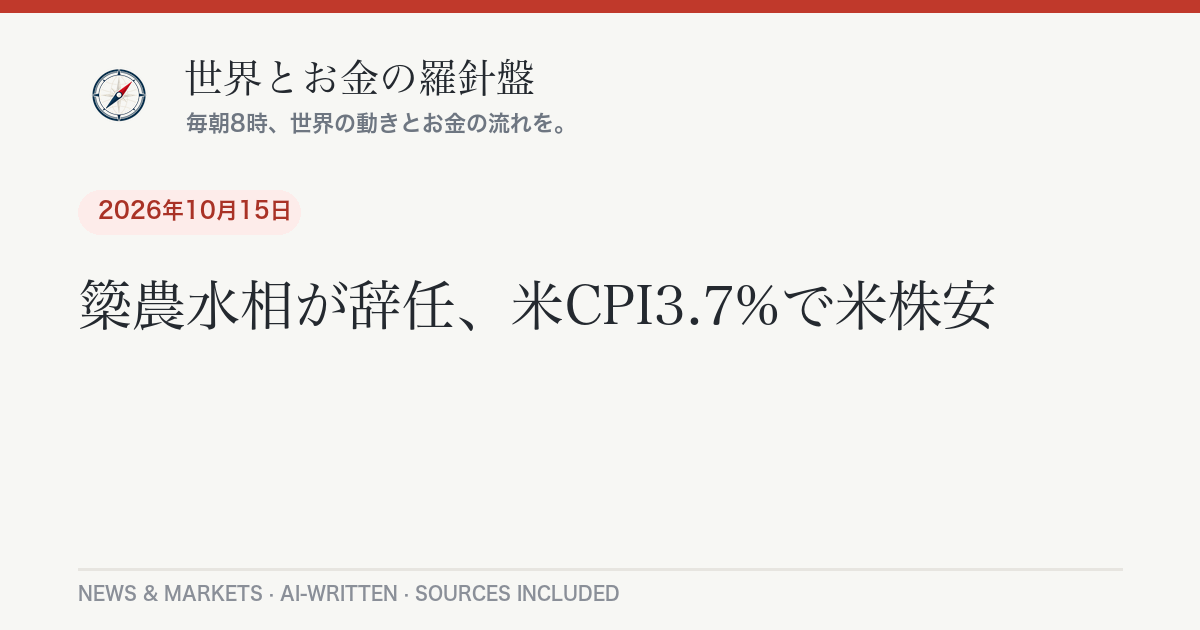
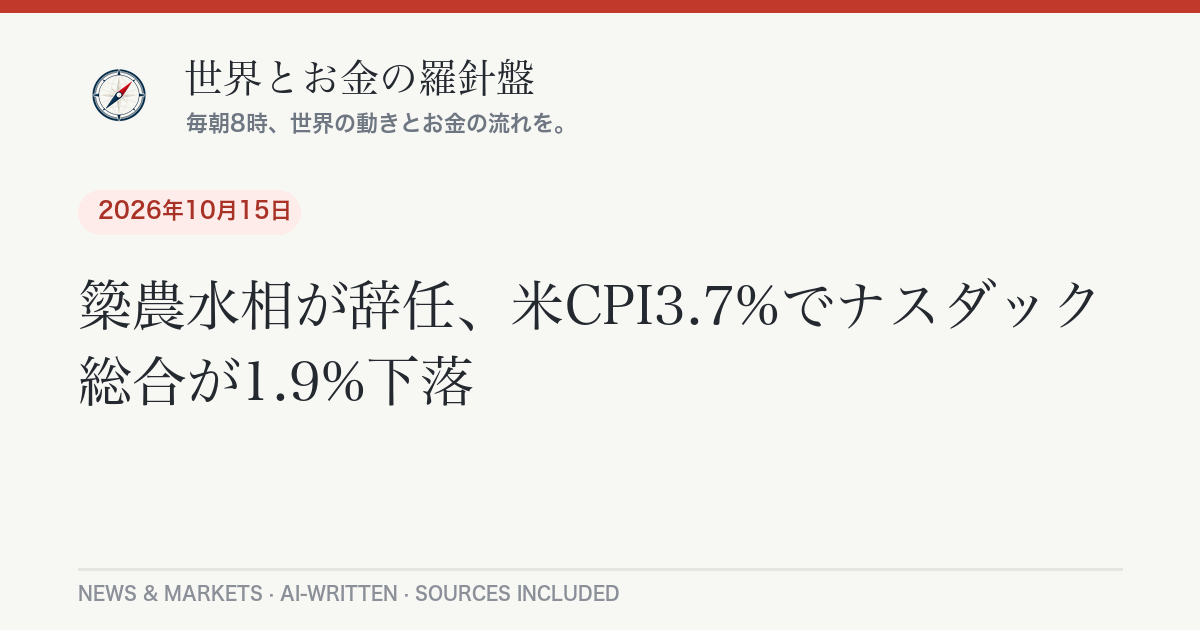
Daily briefing 2026-10-17

Changed region(s): [[0.0617, 0.5429, 0.4008, 0.6635], [0.6783, 0.4222, 0.8633, 0.5429], [0.8942, 0.4524, 0.925, 0.5127]]

diff --git a/_posts/2026-10-17-daily-briefing.md b/_posts/2026-10-17-daily-briefing.md
@@ -1,0 +1,107 @@
+---
+layout: post
+lang: ja
+title: "AI債務不安でナスダック2%安、原油は100ドル目前｜10月17日のニュースとお金"
+date: 2026-10-17 07:41:43 +0900
+categories: [ニュース, 経済]
+headline: "AI債務不安でナスダック2%安、原油は100ドル目前"
+permalink: /2026/10/17/daily-briefing/
+---
+
+## 今日のポイント
+
+16日のアメリカ市場では、AI（人工知能）向けデータセンター企業の「借金」への不安が再び強まり、ナスダック総合指数が2%を超えて下がりました。一方、中東の緊張が続く原油は1バレル100ドル目前まで上がっています。東京市場は前日の急落から7営業日ぶりに大きく反発しましたが、週明けは米国株安の影響を受けやすい状況です。
+
+## 今日の羅針盤（Compass Insight）
+
+今日のキーワードは「AIの借金とエネルギー高の二重苦」です。米国では、AI向けの計算設備を貸し出すコアウィーブの社債や信用リスクへの不安が広がり、ハイテク株がまとめて売られました。前日に「金利が下がって一息」と見えた流れは1日で逆戻りし、ナスダックは[2.14%安](https://thestreet.com/stock-market-today/stock-market-today-dow-jones-sp-500-nasdaq-updates-oct-16-2026)となりました。
+
+もう一つの重しが物価です。米国の9月の消費者物価は[前年比3.7%上昇](https://www.cnbc.com/2026/10/16/us-treasury-yields-investors-hot-inflation-data-.html)と予想を上回り、ウォーシュFRB議長は10月27〜28日の会合で利上げするかどうかについて[はっきりした合図を出しませんでした](https://www.cnbc.com/2026/10/16/feds-warsh-says-ai-development-path-will-be-very-bumpy-.html)。原油高が物価を押し上げ、それが金利高を招き、借金の多い企業の株価を圧迫する——今週の相場はこの連鎖で動いています。
+
+家計への影響で見ると、原油（WTI）が[1バレル99ドル台](https://finance.yahoo.com/quote/CL%3DF/history)、ドル円が[1ドル＝158円台](https://api.frankfurter.app/latest?from=USD&to=JPY)という組み合わせは、日本ではガソリン代や電気・ガス代、輸入食品の値段を押し上げる方向に働きます。新NISAなどで米国株やハイテク株の投資信託を持っている方は、値動きが大きい局面が続く可能性があります。
+
+短期的には、週明けの東京市場が16日の反発を保てるか、そして10月末の米FOMCで利上げがあるかに注目です。中長期では、AI関連企業が借金に見合う利益を出せるのか、決算での「答え合わせ」と、ホルムズ海峡の通航が落ち着くかどうかが大きな分かれ目になりそうです。
+
+## 今日のニュース
+
+### 日本
+
+- 高市首相は16日の参議院予算委員会で、地元の道路予算をめぐる発言などで辞任した簗前農林水産相について[陳謝し、内閣一丸で重要課題に対応する考えを示しました](https://news.web.nhk/newsweb/na/nd-20261016de60209)。予算配分の増減があった場合、その理由の公開も検討するよう指示したことも明らかにしています。
+- 10月2日のG7オンライン首脳会議を欠席したことについて、首相は「ディスプレーの準備が整わなかった」など[事務的な準備が間に合わなかったと釈明しました](https://www.nikkei.com/article/DGXZQOUA161FH0W6A011C2000000/)。
+- 気象庁は16日昼、北海道から東海にかけて出した緊急地震速報を[取り消しました](https://news.livedoor.com/topics/detail/32580904/)。地震の規模を過大に推定したことが原因とみられています。
+- 東京株式市場は日経平均が[898円高の6万5324円](https://www.zaikei.co.jp/article/20261016/873804.html)と7営業日ぶりに反発し、終値で6万5000円台を回復しました。
+
+### 世界
+
+- ホルムズ海峡周辺では、英国の海事機関UKMTOによると[今週だけで12隻が攻撃を受けたと報告](https://www.cbsnews.com/live-updates/iran-war-us-trump-strait-of-hormuz-yemen-houthis-saudi-arabia/)されています。イラン革命防衛隊は海峡を支配していると主張しましたが、米中央軍はこれを否定しています。
+- イランのペゼシュキアン大統領は16日、核兵器を求めていないと述べ、[対話の用意があると表明](https://www.cbsnews.com/live-updates/iran-war-us-trump-strait-of-hormuz-yemen-houthis-saudi-arabia/)しました。
+
+### アメリカ
+
+- トランプ大統領は、ウクライナがロシアの製油所への攻撃を再開したことを[「恥ずべきこと」と批判](https://www.nbcnews.com/world/ukraine/trump-ukraine-strikes-russian-oil-disgrace-zelenskyy-starlink-rcna603848)し、世界の石油価格を押し上げるだけだと述べました。
+- 14日に発表された9月の消費者物価指数は[前年比3.7%上昇](https://www.cbsnews.com/news/september-cpi-report-inflation-energy-costs/)と予想（3.6%）を上回りました。ガソリンなどエネルギー価格の高騰が主な要因で、FRBへの利上げ圧力になっています。
+- AI関連株の売りが広がり、ナスダック総合指数は[2.14%安の2万6140](https://thestreet.com/stock-market-today/stock-market-today-dow-jones-sp-500-nasdaq-updates-oct-16-2026)で取引を終えました。
+
+### ヨーロッパ
+
+- ブリュッセルのEU首脳会議が16日に閉幕しました。ゼレンスキー大統領は来年に向けて[700億ユーロの追加支援を要請](https://www.euronews.com/2026/10/16/budget-ukraine-migration-five-takeaways-from-the-eu-leaders-summit)し、首脳らはロシアが全面侵攻を続ける限り制裁を維持する姿勢を確認しました。
+- 次期の長期予算は前進がなく、[11月26日に特別首脳会議](https://www.euronews.com/2026/10/16/budget-ukraine-migration-five-takeaways-from-the-eu-leaders-summit)が開かれます。中国からの化学品・機械の輸入に対し、関税などの貿易防衛策の準備を欧州委員会に求めました。
+- ゼレンスキー氏はトランプ氏との関係が冷え込むなか、欧州首脳を[「真のリーダー」とたたえました](https://www.cnn.com/2026/10/16/europe/zelensky-brussels-trump-relationship-intl)。
+
+## 経済とお金の動き
+
+### 世界の経済と原油・相場
+
+| 指標 | 水準（10月16日終値など） | 前日比 |
+|---|---|---|
+| NYダウ | [5万2002.41ドル](https://thestreet.com/stock-market-today/stock-market-today-dow-jones-sp-500-nasdaq-updates-oct-16-2026) | <span class="chg-down">-175.28ドル（-0.34%）</span> |
+| S&P500 | [7659.44](https://finance.yahoo.com/quote/%5EGSPC/history) | <span class="chg-down">-84.62（-1.09%）</span> |
+| ナスダック総合 | [2万6140.03](https://thestreet.com/stock-market-today/stock-market-today-dow-jones-sp-500-nasdaq-updates-oct-16-2026) | <span class="chg-down">-573.00（-2.14%）</span> |
+| 日経平均株価 | [6万5324.29円](https://www.zaikei.co.jp/article/20261016/873804.html) | <span class="chg-up">+898.34円（+1.39%）</span> |
+| TOPIX | [4066.00](https://www.zaikei.co.jp/article/20261016/873804.html) | <span class="chg-up">+66.66（+1.67%）</span> |
+| WTI原油 | [99.04ドル/バレル](https://finance.yahoo.com/quote/CL%3DF/history) | <span class="chg-up">+1.07ドル（+1.1%）</span> |
+| ドル円 | [158.02円](https://api.frankfurter.app/latest?from=USD&to=JPY)（ECB参照レート、10月16日） | — |
+
+原油は、北海ブレントが16日に一時[1バレル110ドルに達しました](https://www.cnbc.com/2026/10/16/oil-price-today-iran-strait-hormuz-ukraine-russia.html)。ホルムズ海峡での攻撃に加え、ウクライナがロシアの製油所への攻撃を続ける姿勢を示したことが材料です。WTIは12日の93ドル台から[週を通じて上昇](https://finance.yahoo.com/quote/CL%3DF/history)しました。エネルギー高は世界の物価を押し上げ、各国の利上げ圧力にもつながっています。
+
+### アメリカの経済
+
+米国では「物価が下がりきらない」ことがはっきりしてきました。9月の消費者物価は前年比3.7%、卸売物価は[6.3%上昇と2022年以来の大きさ](https://www.cnbc.com/2026/10/16/us-treasury-yields-investors-hot-inflation-data-.html)です。10年国債利回りは週末時点で[5.1%前後](https://www.cnbc.com/2026/10/16/us-treasury-yields-investors-hot-inflation-data-.html)と高い水準にあります。ウォーシュ議長は10月の利上げについて手の内を見せず、市場は月末のFOMCまで神経質な展開が続きそうです。セクター別ではテクノロジーが[3%超下落した一方、エネルギーは約2.5%上昇](https://www.wptf.com/2026/10/16/18609/)と明暗が分かれました。
+
+### 日本の経済
+
+日経平均は、前日の3318円安からの買い戻しで[7営業日ぶりに反発](https://kabutan.jp/news/marketnews/?b=n202610160962)しました。半導体関連が中心で、東京エレクトロン1銘柄で日経平均を[約134円押し上げ](https://www.zaikei.co.jp/article/20261016/873816.html)ています。ただ、その後の米国でハイテク株が再び売られたため、週明けは反落から始まる可能性もあります。円は1ドル＝158円台と円安水準が続いており、輸入物価を通じた値上がり圧力は残っています。
+
+## 今日の注目銘柄・セクター
+
+- **コアウィーブ（米・AIデータセンター）**：多額の借金への不安から株価が大きく下がり、16日の昼過ぎには[11%超下落](https://www.forbes.com/sites/antoniopequenoiv/2026/10/16/coreweave-shares-slide-after-jensen-huang-says-he-is-optimistic-about-ai-firm/)しました。エヌビディアのフアンCEOが「楽観している」と発言したものの、売りは止まりませんでした。社債の信用リスクを示すCDSも[過去最高水準](https://www.cnbc.com/2026/10/15/coreweave-credit-default-swaps-hit-distress-levels-as-investors-sour-on-ai-debt.html)に達しています。
+- **米国のエネルギー株**：原油高を受けて、ハイテク株が売られるなかで[唯一といえる強いセクター](https://www.wptf.com/2026/10/16/18609/)となりました。
+- **東京エレクトロン**：前日の急落からの買い戻しで[2.56%高](https://www.zaikei.co.jp/article/20261016/873816.html)となり、日経平均の上昇に最も寄与しました。米国のハイテク株安を受け、週明けの値動きが注目されます。
+
+*※特定銘柄の売買を推奨するものではありません。投資判断はご自身の責任で。*
+
+## まとめ：注目の3つ
+
+1. **AI企業の借金問題**：コアウィーブを起点に、借金でAI投資を進める企業への警戒が広がるか
+2. **10月27〜28日の米FOMC**：物価の上振れを受けて、追加の利上げがあるか
+3. **原油100ドルの攻防**：ホルムズ海峡とロシア製油所への攻撃が、ガソリン代や電気代にどう響くか
+
+---
+<div class="post-sources" markdown="1">
+
+**出典：**
+- [TheStreet・Stock Market Today (Oct. 16, 2026)](https://thestreet.com/stock-market-today/stock-market-today-dow-jones-sp-500-nasdaq-updates-oct-16-2026)
+- [CNBC・U.S. Treasury yields waver as traders wrap up volatile week](https://www.cnbc.com/2026/10/16/us-treasury-yields-investors-hot-inflation-data-.html)
+- [CNBC・Brent oil touches $110 as Iran escalates Hormuz attacks](https://www.cnbc.com/2026/10/16/oil-price-today-iran-strait-hormuz-ukraine-russia.html)
+- [Forbes・CoreWeave Shares Slide After Jensen Huang Says He Is 'Optimistic'](https://www.forbes.com/sites/antoniopequenoiv/2026/10/16/coreweave-shares-slide-after-jensen-huang-says-he-is-optimistic-about-ai-firm/)
+- [財経新聞・日経平均大引け：前日比898.34円高の65324.29円](https://www.zaikei.co.jp/article/20261016/873804.html)
+- [NHK・高市首相 簗前農相辞任を陳謝](https://news.web.nhk/newsweb/na/nd-20261016de60209)
+- [日本経済新聞・高市首相、G7欠席「ディスプレー準備整わず」](https://www.nikkei.com/article/DGXZQOUA161FH0W6A011C2000000/)
+- [NBC News・Trump says Ukraine resuming strikes on Russian oil sites is a 'disgrace'](https://www.nbcnews.com/world/ukraine/trump-ukraine-strikes-russian-oil-disgrace-zelenskyy-starlink-rcna603848)
+- [Euronews・Five takeaways from the EU leaders' summit](https://www.euronews.com/2026/10/16/budget-ukraine-migration-five-takeaways-from-the-eu-leaders-summit)
+- [CBS News・Iran war live updates](https://www.cbsnews.com/live-updates/iran-war-us-trump-strait-of-hormuz-yemen-houthis-saudi-arabia/)
+- 市場データ: [frankfurter API](https://api.frankfurter.app/) ／ Yahoo Finance ほか
+
+*本記事は公開情報をもとに作成しています。*
+
+</div>

diff --git a/_posts/2026-10-17-daily-briefing-en.md b/_posts/2026-10-17-daily-briefing-en.md
@@ -1,0 +1,51 @@
+---
+layout: post
+lang: en
+title: "AI debt fears sink Nasdaq 2% as oil nears $100 — October 17, 2026"
+date: 2026-10-17 07:41:43 +0900
+headline: "AI debt fears sink Nasdaq 2% as oil nears $100"
+permalink: /2026/10/17/daily-briefing/
+---
+
+## Top U.S. Stories
+
+- **Tech sell-off caps a rough week.** Worries about debt-funded AI infrastructure returned on Friday, and the Nasdaq Composite fell [2.14% to 26,140.03](https://thestreet.com/stock-market-today/stock-market-today-dow-jones-sp-500-nasdaq-updates-oct-16-2026). The S&P 500 lost 1.09% and the Dow slipped 0.34%.
+  *Why it matters:* The AI trade has carried the market for years; if lenders start pricing in real default risk, funding for the build-out gets more expensive.
+- **Inflation runs hot.** September CPI, released Wednesday, rose [3.7% from a year earlier](https://www.cbsnews.com/news/september-cpi-report-inflation-energy-costs/), above the 3.6% forecast, and wholesale prices jumped 6.3%, the biggest gain since 2022. Fed Chair Kevin Warsh [declined to signal](https://www.cnbc.com/2026/10/16/feds-warsh-says-ai-development-path-will-be-very-bumpy-.html) whether another hike is coming at the Oct. 27–28 meeting.
+  *Why it matters:* With the 10-year yield near 5.1%, mortgage and business borrowing costs stay high heading into the holidays.
+- **CoreWeave under pressure.** Shares of the AI cloud provider fell [more than 11% by early afternoon](https://www.forbes.com/sites/antoniopequenoiv/2026/10/16/coreweave-shares-slide-after-jensen-huang-says-he-is-optimistic-about-ai-firm/) even after Nvidia's Jensen Huang said he was optimistic about the company. Its credit default swaps had hit [distress levels](https://www.cnbc.com/2026/10/15/coreweave-credit-default-swaps-hit-distress-levels-as-investors-sour-on-ai-debt.html) a day earlier.
+- **Trump vs. Kyiv on oil.** President Trump called Ukraine's resumed strikes on Russian refineries ["a disgrace"](https://www.nbcnews.com/world/ukraine/trump-ukraine-strikes-russian-oil-disgrace-zelenskyy-starlink-rcna603848), saying they only push world oil prices higher.
+  *Why it matters:* Fuel prices are a live issue weeks before the midterms, and the rift is pushing Zelenskyy closer to European leaders.
+- **Iran signals openness to talks.** Iran's president said Tehran does not seek nuclear weapons and is [ready for dialogue](https://www.cbsnews.com/live-updates/iran-war-us-trump-strait-of-hormuz-yemen-houthis-saudi-arabia/), even as 12 ships reported attacks around the Strait of Hormuz this week.
+
+## Compass Insight
+
+This week's market ran on one chain reaction: expensive oil keeps inflation sticky, sticky inflation keeps yields high, and high yields punish companies that borrowed heavily to build AI capacity. Thursday's relief rally on lower yields lasted a single session. Energy stocks were the lone bright spot, a reminder that the same force hurting consumers is rewarding producers. In the short run, watch whether the Fed hikes again on Oct. 28 and whether Brent holds above $100. Over the longer run, the key question is whether AI spending turns into enough profit to service the debt behind it — earnings season is where that answer starts to show up.
+
+## Markets
+
+- Dow: [52,002.41](https://thestreet.com/stock-market-today/stock-market-today-dow-jones-sp-500-nasdaq-updates-oct-16-2026) (-0.34%); S&P 500: [7,659.44](https://finance.yahoo.com/quote/%5EGSPC/history) (-1.09%); Nasdaq: 26,140.03 (-2.14%)
+- Tech fell more than 3%, while energy rose about 2.5% ([The Closing Bell](https://www.wptf.com/2026/10/16/18609/))
+- WTI crude: [$99.04](https://finance.yahoo.com/quote/CL%3DF/history); Brent briefly touched [$110](https://www.cnbc.com/2026/10/16/oil-price-today-iran-strait-hormuz-ukraine-russia.html)
+- USD/JPY: [158.02](https://api.frankfurter.app/latest?from=USD&to=JPY) (ECB reference rate, Oct. 16); Japan's Nikkei rebounded [898 points to 65,324](https://www.zaikei.co.jp/article/20261016/873804.html) before the U.S. sell-off
+
+## Stocks in Focus
+
+- **CoreWeave:** The center of the AI-debt scare, with record credit-protection costs.
+- **Energy producers:** The week's winners as oil climbed toward $100.
+
+<div class="post-sources" markdown="1">
+
+**Sources:**
+- [TheStreet — Stock Market Today (Oct. 16, 2026)](https://thestreet.com/stock-market-today/stock-market-today-dow-jones-sp-500-nasdaq-updates-oct-16-2026)
+- [CNBC — U.S. Treasury yields waver as traders wrap up volatile week](https://www.cnbc.com/2026/10/16/us-treasury-yields-investors-hot-inflation-data-.html)
+- [CNBC — Fed's Warsh withholds rate signal](https://www.cnbc.com/2026/10/16/feds-warsh-says-ai-development-path-will-be-very-bumpy-.html)
+- [CNBC — Brent oil touches $110](https://www.cnbc.com/2026/10/16/oil-price-today-iran-strait-hormuz-ukraine-russia.html)
+- [Forbes — CoreWeave shares slide](https://www.forbes.com/sites/antoniopequenoiv/2026/10/16/coreweave-shares-slide-after-jensen-huang-says-he-is-optimistic-about-ai-firm/)
+- [NBC News — Trump calls Ukraine strikes a 'disgrace'](https://www.nbcnews.com/world/ukraine/trump-ukraine-strikes-russian-oil-disgrace-zelenskyy-starlink-rcna603848)
+- [CBS News — Iran war live updates](https://www.cbsnews.com/live-updates/iran-war-us-trump-strait-of-hormuz-yemen-houthis-saudi-arabia/)
+- Market data: [frankfurter API](https://api.frankfurter.app/) / Yahoo Finance
+
+</div>
+
+*Auto-generated and AI-written. Not investment advice.*
